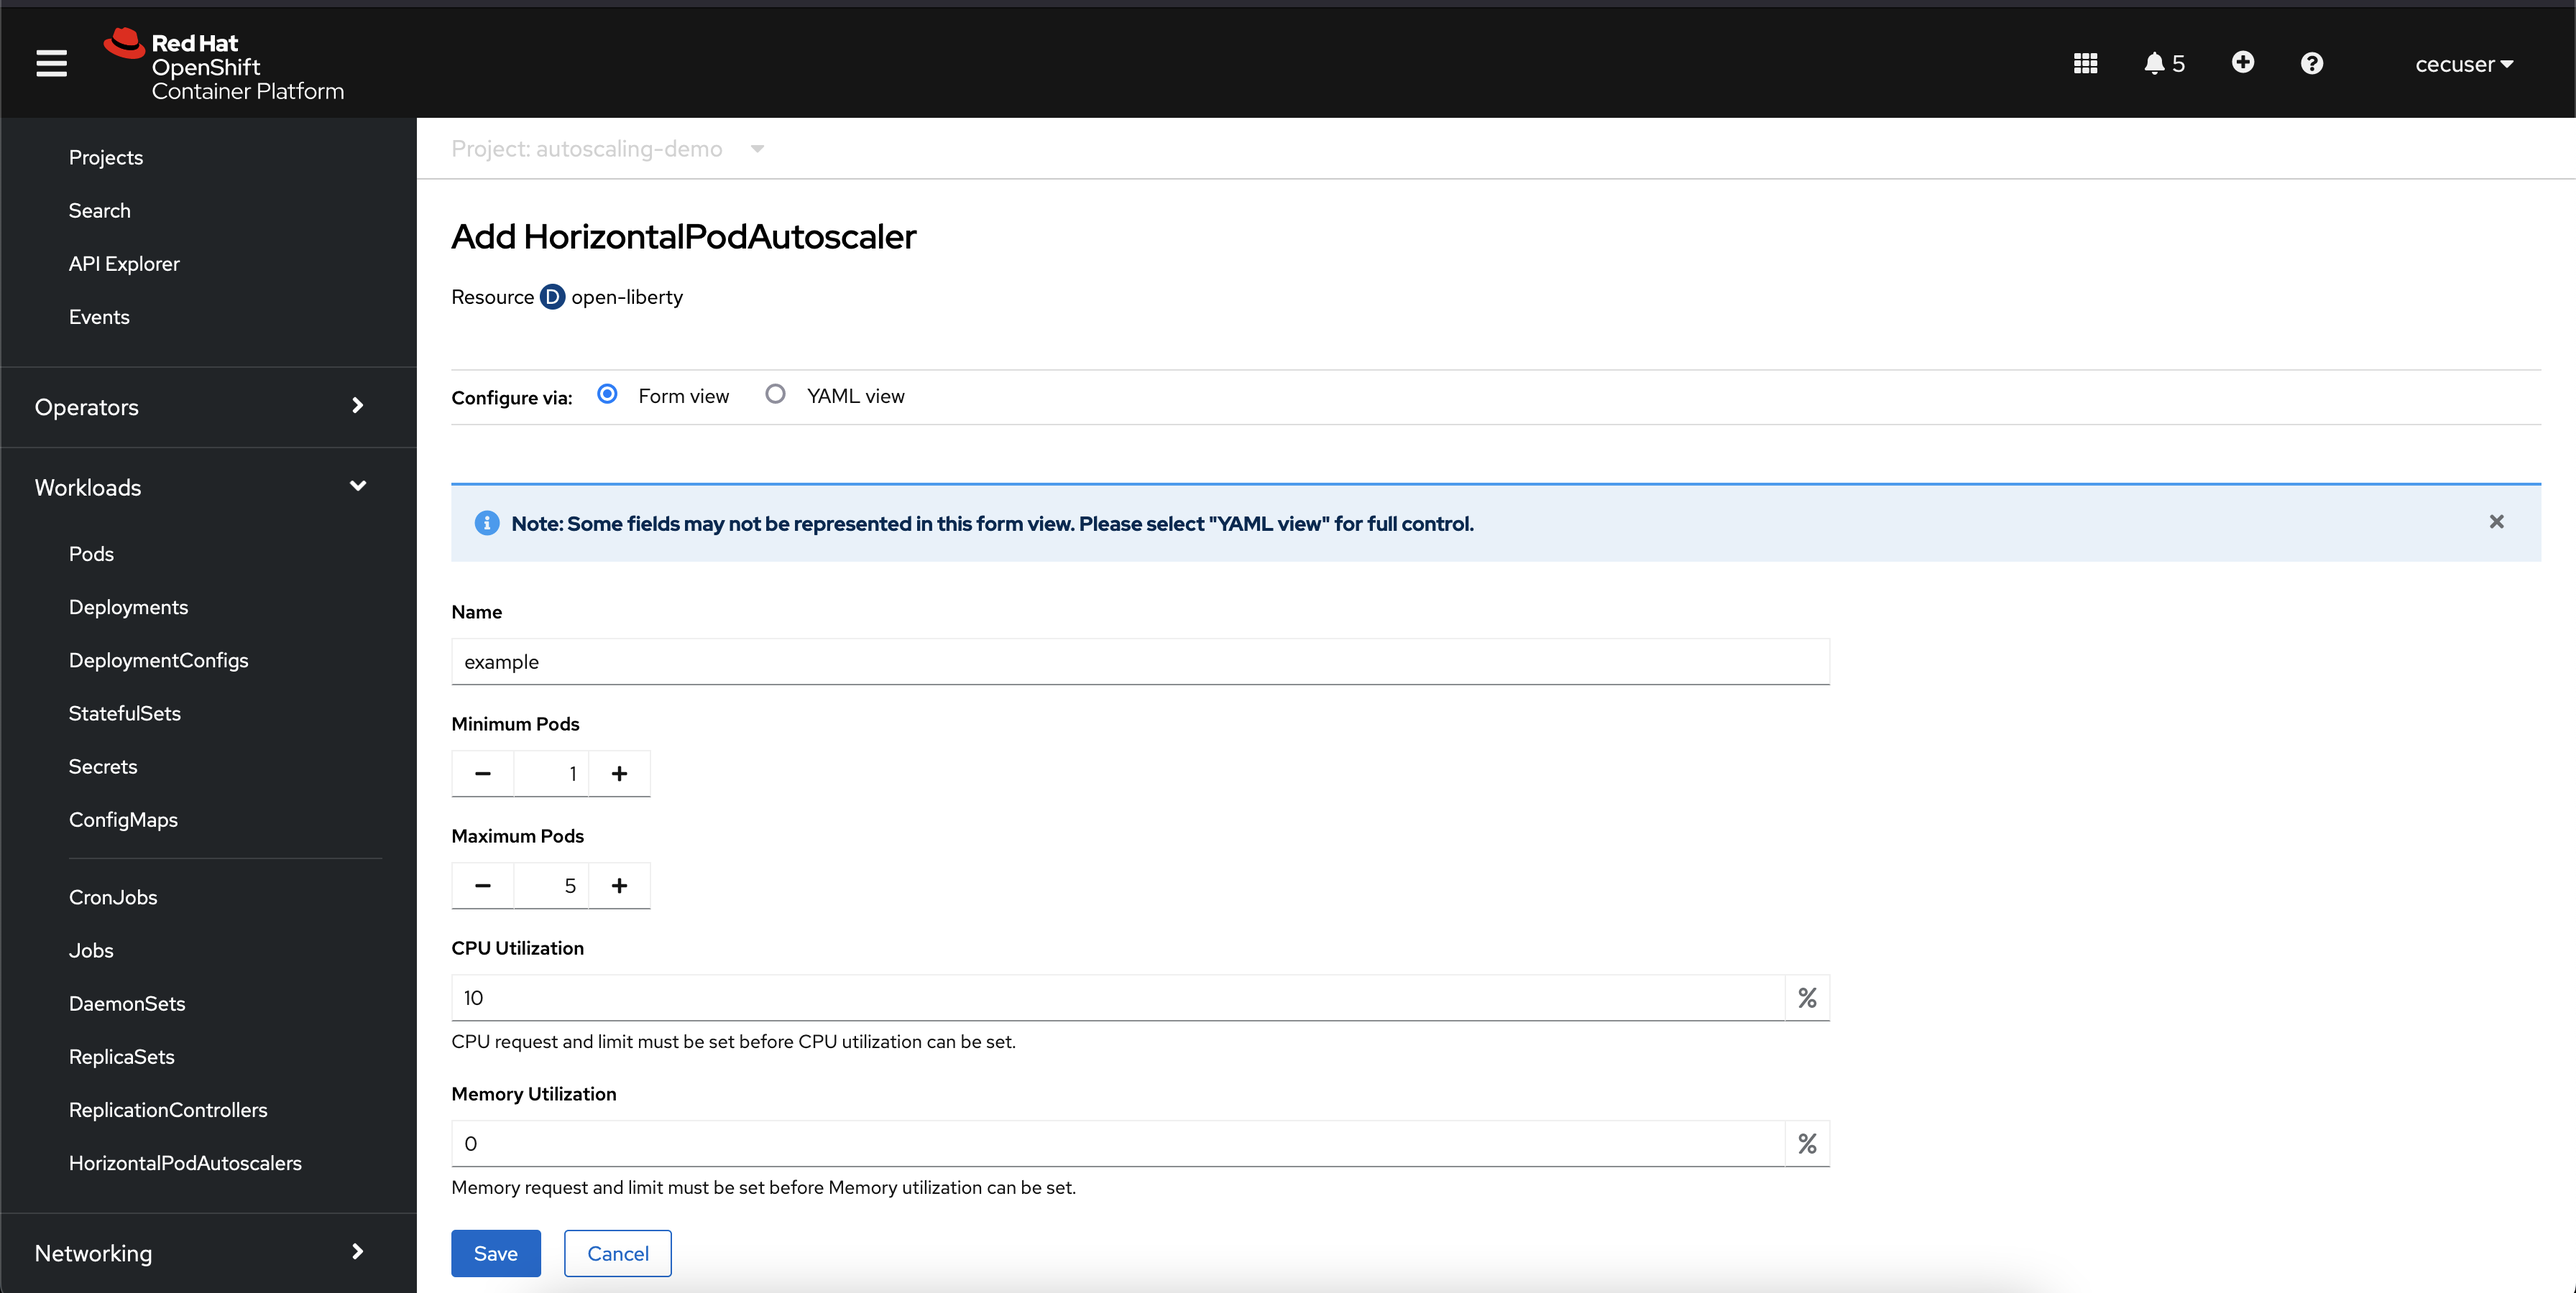
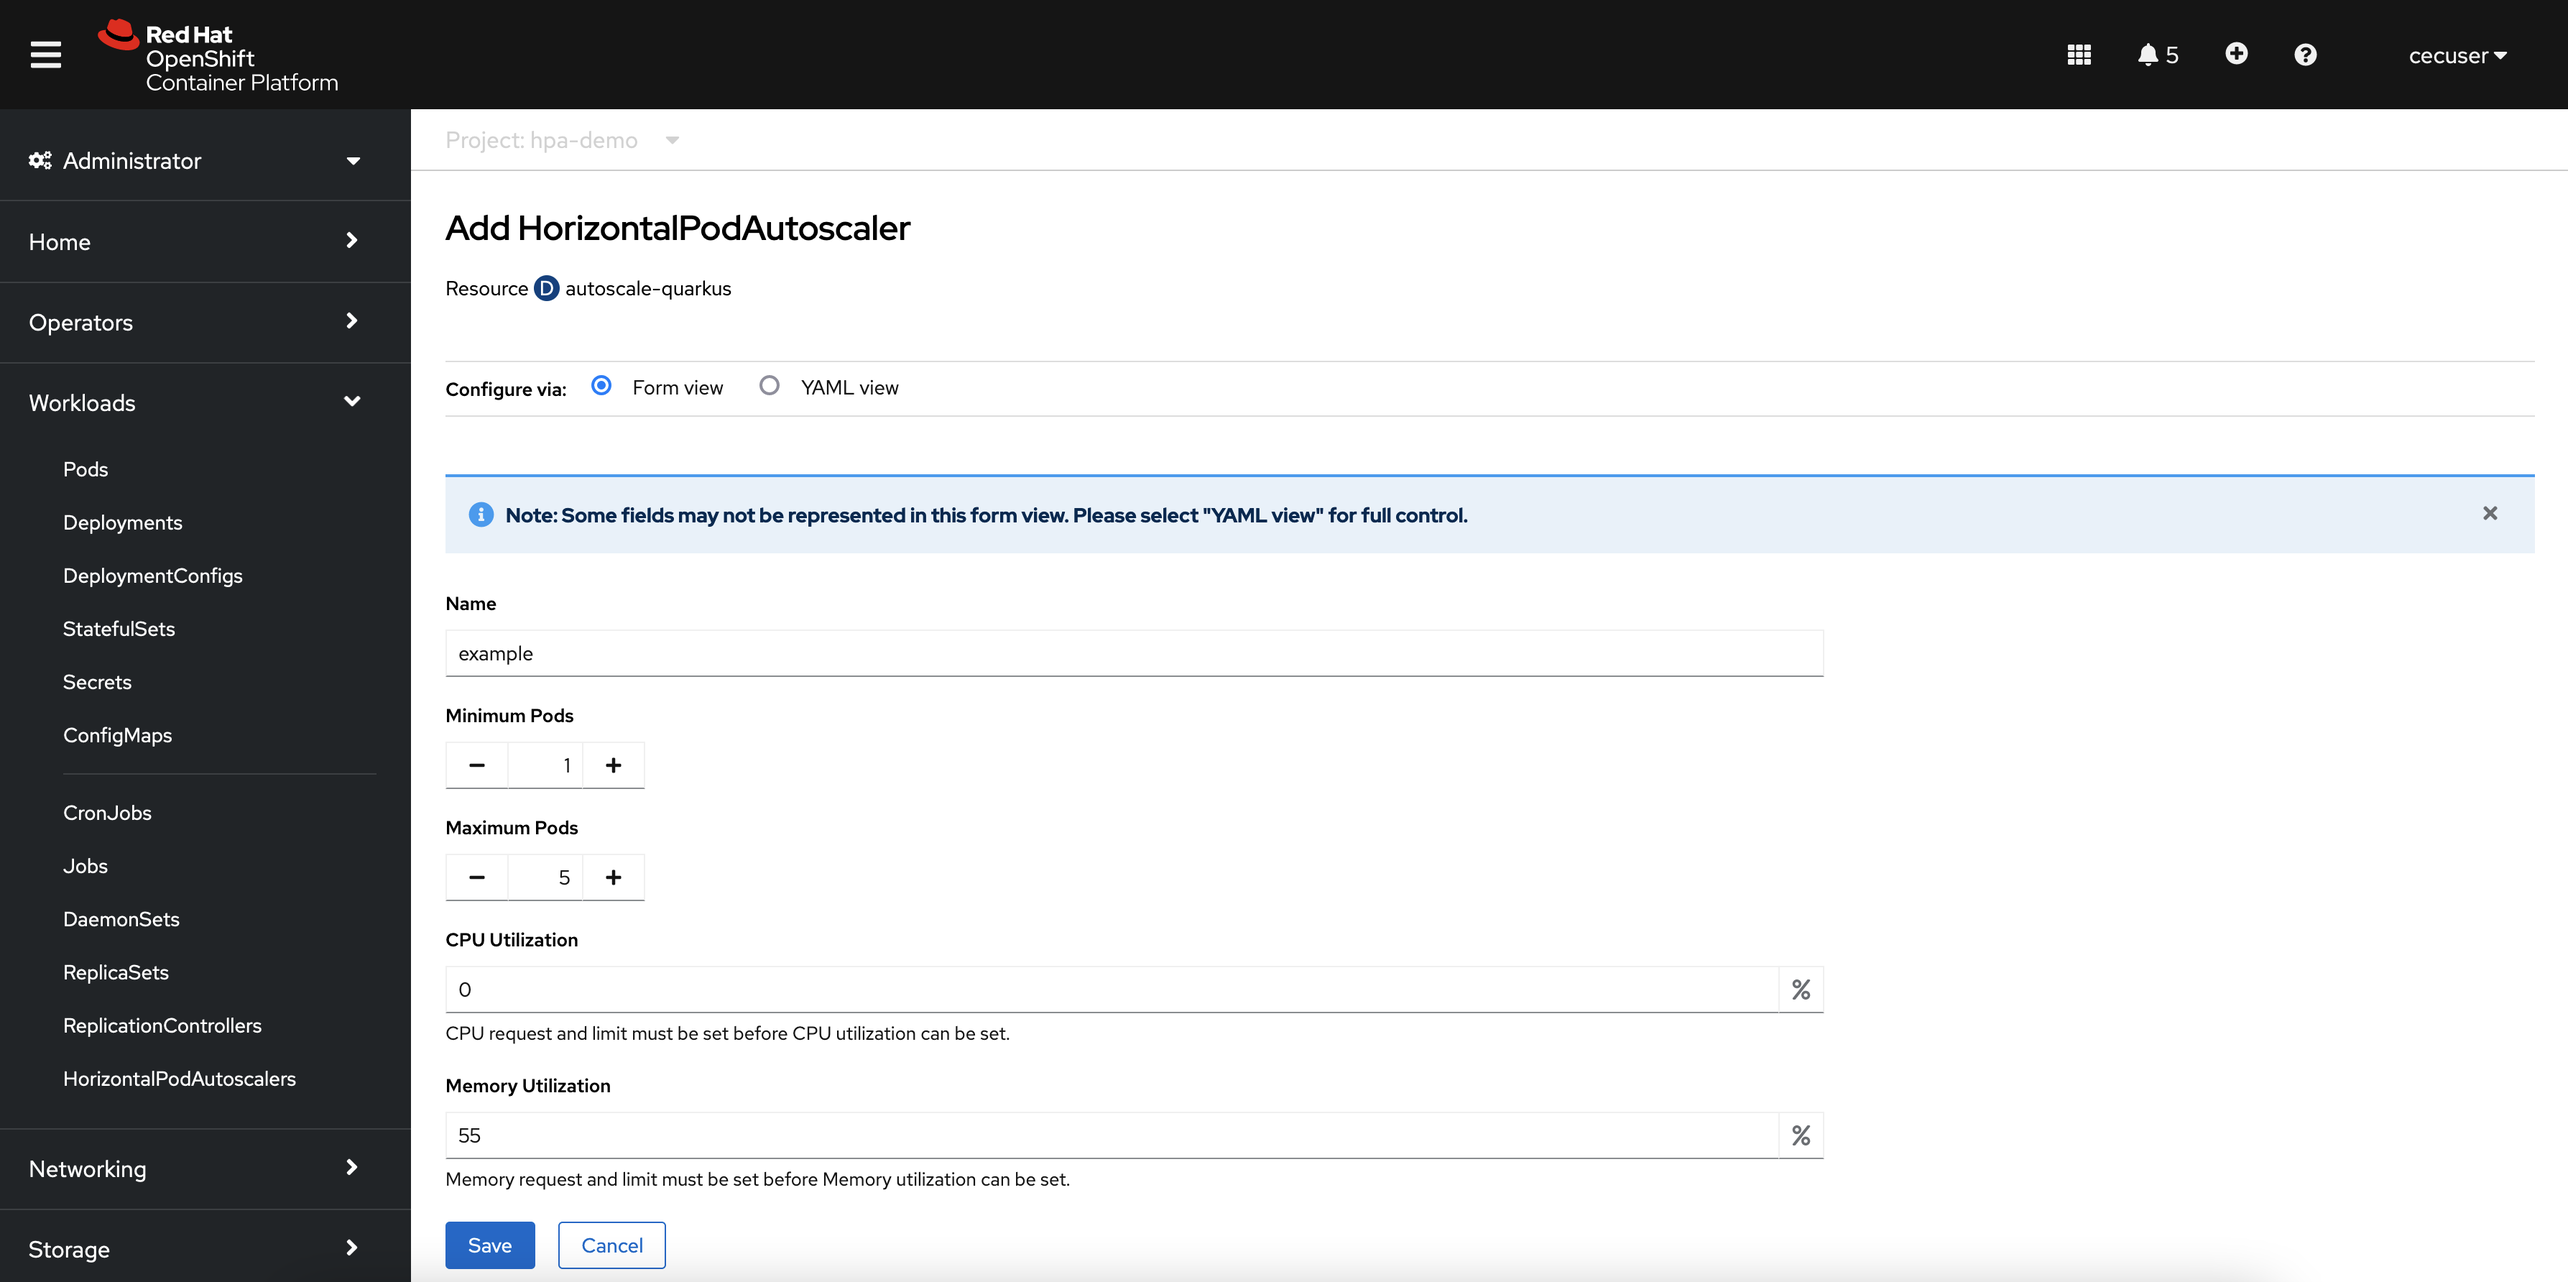
swap to quarkus and finish hpa section draft

diff --git a/README.md b/README.md
@@ -42,41 +42,48 @@ To get started with the demonstration, create an application on the OpenShift cl
 1. Create a new project:
 
   ```text
-  oc new-project autoscaling-demo
+  oc new-project hpa-demo
   ```
 
-1. In the new project, deploy an Open Liberty container image:
+2. In the new project, deploy a pre-built Quarkus container image:
 
   ```text
-  oc new-app --image=quay.io/mmondics/open-liberty:latest --name=open-liberty
+  oc new-app --image=quay.io/mmondics/autoscale-quarkus:v1 --name=autoscale-quarkus
   ```
 
   <details>
   <summary>Click to expand sample output</summary>
 
   ```text
-  --> Found container image 0805ec4 (5 days old) from quay.io for "quay.io/mmondics/open-liberty:latest"
+  --> Found container image 2bc8c02 (11 hours old) from quay.io for "quay.io/mmondics/autoscale-quarkus:v1"
 
-  * An image stream tag will be created as "open-liberty:latest" that will track this image
-  
+      Java Applications
+      -----------------
+      Platform for building and running plain Java applications (fat-jar and flat classpath)
+
+      Tags: builder, java
+
+      * An image stream tag will be created as "autoscale-quarkus:v1" that will track this image
+
   --> Creating resources ...
-      imagestream.image.openshift.io "open-liberty" created
-      deployment.apps "open-liberty" created
-      service "open-liberty" created
+      imagestream.image.openshift.io "autoscale-quarkus" created
+      deployment.apps "autoscale-quarkus" created
+      service "autoscale-quarkus" created
   --> Success
       Application is not exposed. You can expose services to the outside world by executing one or more of the commands below:
-      'oc expose service/open-liberty'
+      'oc expose service/autoscale-quarkus'
       Run 'oc status' to view your app.
   ```
+  
   </details>
 
 1. Expose the Service to create a Route:
 
   ```text
-  oc expose service/open-liberty
+  oc expose service/autoscale-quarkus
   ```
 
-  By default, you have one Open Liberty Pod running in your project that is responsible for all requests that hit the application.
+  By default, you have one Quarkus Pod running in your project that is responsible for all requests that hit the application.
 
 1. Look at your one pod:
 
@@ -85,19 +92,32 @@ To get started with the demonstration, create an application on the OpenShift cl
   ```
 
   ```text
-  NAME                           READY   STATUS    RESTARTS   AGE
-  open-liberty-96db8b4b5-x2ncc   1/1     Running   0          8m20s 
+  NAME                                 READY   STATUS    RESTARTS   AGE
+  autoscale-quarkus-597c7d55cb-jdplh   1/1     Running   0          74s
   ```
 
-  Because there is only one replica of the Open Liberty application running, it is solely responsible for all requests that come into the cluster through its exposed Route. Furthermore, because no resource requests or limits have been set for this application, it has the capability to use as many resources as it needs with no upper bound. This is clearly not a viable setup for production workloads or any situation where high availability and performance are needed. For this reason, setting resource requests and limits is considered a best practice. Furthermore, they are required for horizontal and vertical Pod autoscaling, so the next step is to set these for the Open Liberty Deployment.
+  Because there is only one replica of the Quarkus application running, it is solely responsible for all requests that come into the cluster through its exposed Route. Furthermore, because no resource requests or limits have been set for this application, it has the capability to use as many resources as it needs with no upper bound. This is clearly not a viable setup for production workloads or any situation where high availability and performance are needed. For this reason, setting resource requests and limits is considered a best practice. Furthermore, they are required for horizontal and vertical Pod autoscaling, so the next step is to set these for the Quarkus Deployment.
 
-1. Navigate to your OpenShift web console and find your Open Liberty Deployment. 
+1. Find your Pod's current memory usage.
+
+  ```text
+  oc adm top pod
+  ```
+
+  ```text
+  NAME                                 CPU(cores)   MEMORY(bytes)
+  autoscale-quarkus-597c7d55cb-qkhxj   0m           68Mi
+  ```
+
+  In the example output above, the current memory utilization is 89 Mi. Your value will vary - take note of it for use in the next step.
+
+2. Navigate to your OpenShift web console and find your Quarkus Deployment. 
 
   Under the *Administrator* perspective, navigate to *Worklaods* -> *Deployments* and make sure you're in the *autoscaling-demo* project.
 
   ![autoscaling-deployment](/images/autoscaling-deployment.png)
   
-1. Click on the three dots associated with the Open Liberty Deployment, then click Edit resource limits:
+1. Click on the three dots associated with the Quarkus Deployment, then click Edit resource limits:
 
   ![autoscaling-deployment-2](images/autoscaling-deployment-2.png)
 
@@ -105,52 +125,103 @@ To get started with the demonstration, create an application on the OpenShift cl
 
   - CPU Request: 5 millicores
   - CPU Limit: 10 millicores
-  - Memory Request: 250 Mi
-  - Memory Limit: 500 Mi
+  - Memory Request: <DOUBLE_YOUR_CURRENT_USAGE> Mi
+  - Memory Limit: <TRIPLE_YOUR_CURRENT_USAGE> Mi
+
+  For example, because the current memory utilization of the Quarkus application when developing this demonstration was 68Mi, the Memory Request was set at 136 Mi and the Memory Limit was set at 204 Mi. 
 
   ![settling-resource-limits](/images/setting-resource-limits.png)
 
-  These requests and limits tell OpenShift that each Pod in the Open Liberty Deployment is guaranteed access to 2 millicores of CPU and 250 Mi of memory. On the other hand, each Pod has a limit of 4 millicores CPU and 500 Mi memory. For more information about Kubernetes resource requests and limmits, you can read the documentation [here](https://kubernetes.io/docs/concepts/configuration/manage-resources-containers/). 
+  These requests and limits tell OpenShift that each Pod in the Quarkus Deployment is guaranteed access to 5 millicores of CPU and double your curent usage of memory. On the other hand, each Pod has a limit of 10 millicores CPU and triple your current usage of memory. This is a Java application that its much more memory-intensive compared to CPU, and was built with an endpoint we will hit to fill the memory even more. Therefore the CPU limits set in this step won't actually do anything or be acted upon during this demonstration.
+  
+  For more information about Kubernetes resource requests and limmits, you can read the documentation [here](https://kubernetes.io/docs/concepts/configuration/manage-resources-containers/). 
 
-1. Click Save for the changes to be applied to the Deployment and for a new Pod to spin up.
+2. Click Save for the changes to be applied to the Deployment and for a new Pod to spin up.
 
-  Next, you will need to create a HorizontalPodAutoscaler that defines the boundries and triggers for autoscaling.
+  Next, you will need to create a HorizontalPodAutoscaler that defines the scaling boundries and triggers for autoscaling to occur.
 
-1. Create a HorizontalPodAutoscaler using either the OpenShift console or CLI with the following parameters:
-
+1. In the OpenShift web console, click the three dots associated with the Quarkus Deployment once again, then select Add HorizontalPodAutoscaler and fill in the fields with the following values.
+  
   - Minimum Replicas: 1
   - Maximum Replicas: 5
-  - Target CPU Percent: 10%
-
-  *Note that the target CPU percentage refers to the desired percent of the CPU Request (5 milicores) for each pod. This is intentionally set very low so as to ensure the deployment will scale up to 5 replicas without the need to simulate workload on the application.*
-
-  You can create this in one of two ways. In the OpenShift CLI, you can run the following command:
-
-  ```text
-  oc autoscale deployment open-liberty --min=1 --max=5 --cpu-percent=10
-  ```
-
-  In the OpenShift web console, you can click the three dots associated with the Open Liberty Deployment once again, then select Add HorizontalPodAutoscaler and fill in the fields as appropriate.
+  - Target CPU Percent: 55%
 
   ![add-hpa-console](/images/add-hpa-console.png)
 
-1. Navigate to the Pods page in the OpenShift console to watch new Pods being created.
+  These parameters are telling OpenShift that the Quarkus application must have a minimum of 1 Pod, a maximum of 5 Pods, and to increase the Pod count whenever the CPU usage surpasses 55% of the CPU resource limit set in the above step (136 Mi). Therefore, whenever a Pod hits 75 Mi CPU usage ~(55% * 136 Mi), another Pod will be created.
+
+  Note that a 55% memory utilization threshold is probably too low for a production workload and would likely trigger autoscaling very often. This number is being used for demonstration purposes only because we want to ensure autoscaling occurs. 
+
+2. Navigate to the HorizontalPodAutoscalers page in the OpenShift console, and click the HPA named `example` (unless you provided a different name).
+
+  ![example-hpa](images/example-hpa.png)
+
+  On the page for your HPA, you can see information about the current and desired replica count, the current memory usage and the target of 55%, and messages about the conditions of the HPA. Unless something in your environment is vastly different than that of the environment used when developing this demonstration, you should only have 1 desired and current replica, and about 50% for current memory usage as a precentage of the request.
+
+  ![example-hpa-details](images/example-hpa-details.png)
+
+  In the next step, you will run a simple `for` loop that will run 100 iterations of a `curl` command against an endpoint built into the Quarkus application that uses the `fill()` method to add dummy data into memory. 
+  
+  <details>
+  <summary>Click to see the code.</summary>
+
+    For anyone interested, the exact Java code is as follows:
+
+    ```java
+    @GET
+    @Path("fill/{index}")
+    @Produces(MediaType.TEXT_PLAIN)
+    public String fill(@PathParam("index") String index) throws Exception {
+
+        HashMap<String, String> mem = new HashMap<String, String>();
+        char[] chars = new char[2 * 1024 * 1024];
+        Arrays.fill(chars, 'f');
+        mem.put(Math.random() + "", new String(chars));
+        System.out.println("Added " + index + "MB");
+        return "Added " + index + "MB \n";
+    }
+    ```
+  </details>
+
+3. From your command line terminal, set the hostname of your Quarkus application route as the variable `$QUARKUS_HOST`
+
+  ```text
+  QUARKUS_HOST=$(oc get route autoscale-quarkus -o=jsonpath='{.spec.host}')
+  ``` 
+
+1. Annotate your Quarkus application route to use the round-robin load balancing algorithm.
+
+  ```text
+  oc annotate route autoscale-quarkus haproxy.router.openshift.io/balance=roundrobin
+  ```
+
+  This will ensure that as new pods are created, requests are balanced evenly among them.
+
+2. Run the following command to add dummy data into memory. This command will take ~200 seconds to run - continue to the next step while it runs.
+
+  ```text
+  for ((i = 1; i <= 100; i++ )); do curl http://$QUARKUS_HOST/hello/fill/$i ; sleep 2 ; done
+  ```
+
+  On your HorizontalPodAutoscalers page in the OpenShift console, you will start to see the current memory usage increase until it reaches the target (55%). Shortly after the threshold is met, a new Pod will be created.
+
+  If your memory utilization is not reaching 55%, open another terminal session and run another instance of the above `for` loop concurrently. You can open as many sessions as you need to send enough requests.
+
+3. Once one or more new pods have been created, navigate to the Pods page in the OpenShift console.
 
   ![autoscaling-pods](/images/autoscaling-pods.png)
 
-  Alternatively, you can run the command `watch oc get pods` in the CLI.
+  Alternatively, you can run the command `oc get pods` in the CLI.
 
   ```text
-  NAME                            READY   STATUS              RESTARTS   AGE
-  open-liberty-69cbbf58c9-5pnrh   1/1     Running             0          22s
-  open-liberty-69cbbf58c9-7f8vw   1/1     Running             0          53m
-  open-liberty-69cbbf58c9-bnqgc   1/1     Running             0          22s
-  open-liberty-69cbbf58c9-fg8xl   0/1     ContainerCreating   0          7s
-  open-liberty-69cbbf58c9-zkb44   1/1     Running             0          22s
+  NAME                                 READY   STATUS              RESTARTS   AGE
+  autoscale-quarkus-5b6b645f64-22s7c   1/1     Running             0          22s
+  autoscale-quarkus-5b6b645f64-5ccnd   1/1     Running             0          53m
+  autoscale-quarkus-5b6b645f64-8mxvj   1/1     ContainerCreating   0          22s
+  autoscale-quarkus-5b6b645f64-ckvbz   0/1     Running             0          7s
+  autoscale-quarkus-5b6b645f64-wmcvm   1/1     Running             0          22s
   ```
 
-  Because each pod is using much more than 10% of the CPU resource request (5 Mi), OpenShift will scale up the deployment to the set maximum of 5 pods. If you noticed that it took a little while for the 
-
-The HorizontalPodAutoscaler object created in the autoscaling-demo project can be modified with more parameters to customize the behavior of the autoscaling. For example, Scaling Policies can be used to control the rate at which the pods scale up or down by setting a specific number or specific percentage to scale in a specified period of time. You can read more about HPA customization in the OpenShift documentation [here](https://docs.openshift.com/container-platform/4.10/nodes/pods/nodes-pods-autoscaling.html#nodes-pods-autoscaling-best-practices-hpa_nodes-pods-autoscaling).
+The HorizontalPodAutoscaler object created in the hpa-demo project can be modified with more parameters to customize the behavior of the autoscaling. For example, Scaling Policies can be used to control the rate at which the pods scale up or down by setting a specific number or specific percentage to scale in a specified period of time. Further configuration is outside the scope of this demo, but you can read more about HPA customization in the OpenShift documentation [here](https://docs.openshift.com/container-platform/4.10/nodes/pods/nodes-pods-autoscaling.html#nodes-pods-autoscaling-best-practices-hpa_nodes-pods-autoscaling).
 
 ## Vertical Pod Autoscaling
